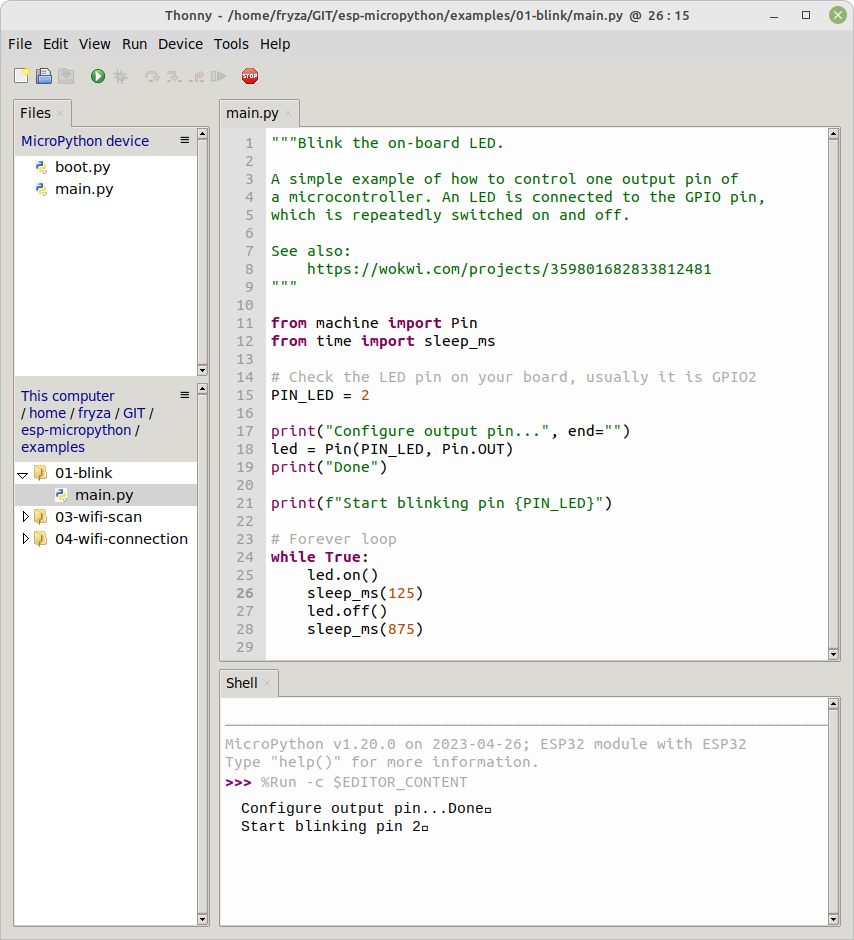
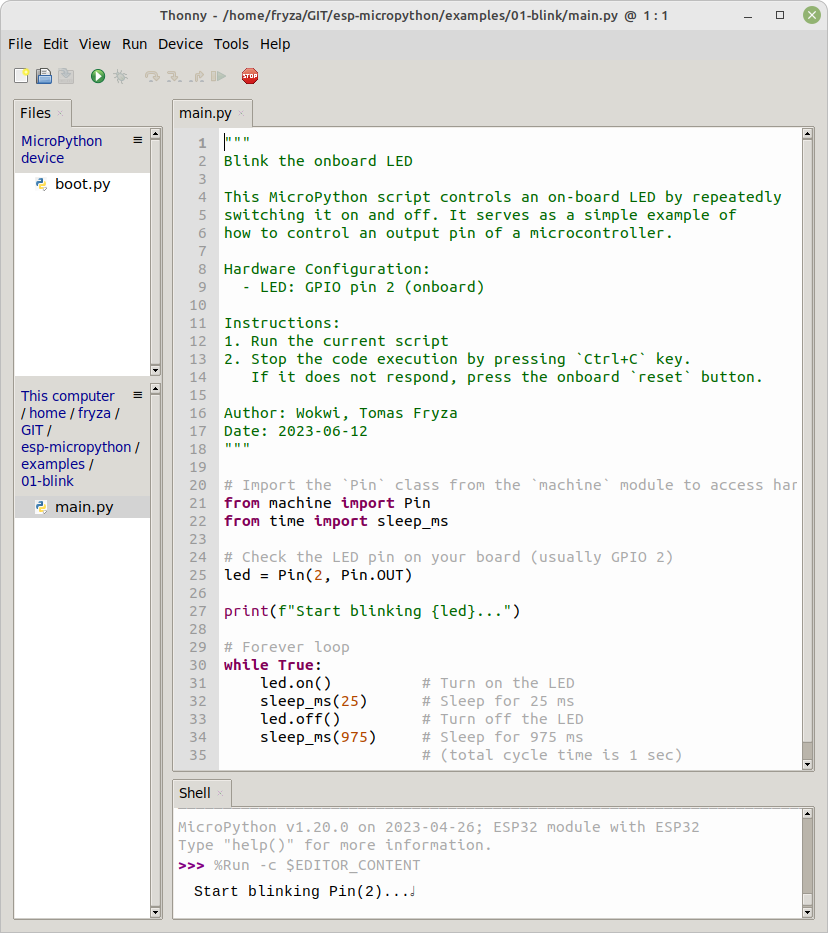
minor modifs

diff --git a/solutions/01-intro/wifi-scan.py b/solutions/01-intro/wifi-scan.py
@@ -2,8 +2,9 @@
 MicroPython Wi-Fi access point scanner
 
 This MicroPython script scans for nearby Wi-Fi access points
-(APs) using an ESP32 microcontroller and displays their SSID,
-channel index, and signal strength (RSSI).
+(APs) using an ESP32 microcontroller and displays their SSID
+(Service Set Identifier, aka network's name), channel index,
+and signal strength (RSSI).
 
 Hardware Configuration:
   - LED: GPIO pin 2 (onboard)
@@ -35,8 +36,8 @@ status_led.off()
 # Print the list of available Wi-Fi networks
 print("SSID              | Channel | Signal Strength (dBm)")
 print("------------------+---------+----------------------")
-for network in available_networks:
-    ssid = network[0].decode("utf-8")
-    channel = network[2]
-    rssi = network[3]
+for net in available_networks:
+    ssid = net[0].decode("utf-8")
+    channel = net[2]
+    rssi = net[3]
     print(f"{ssid:17s} | {channel:7d} | {rssi:10d}")

diff --git a/solutions/01-intro/blink.py b/solutions/01-intro/blink.py
@@ -21,10 +21,10 @@ Date: 2023-09-21
 from machine import Pin
 from time import sleep_ms
 
-# Check the LED pin on your board (usually GPIO2)
+# Check the LED pin on your board (usually GPIO 2)
 led = Pin(2, Pin.OUT)
 
-print("Start blinking...")
+print(f"Start blinking {led}...")
 
 # Forever loop
 while True:

diff --git a/labs/04-timers/README.md b/labs/04-timers/README.md
@@ -1,4 +1,4 @@
-# Lab 3: Timers
+# Lab 4: Timers
 
 ### Learning objectives
 
